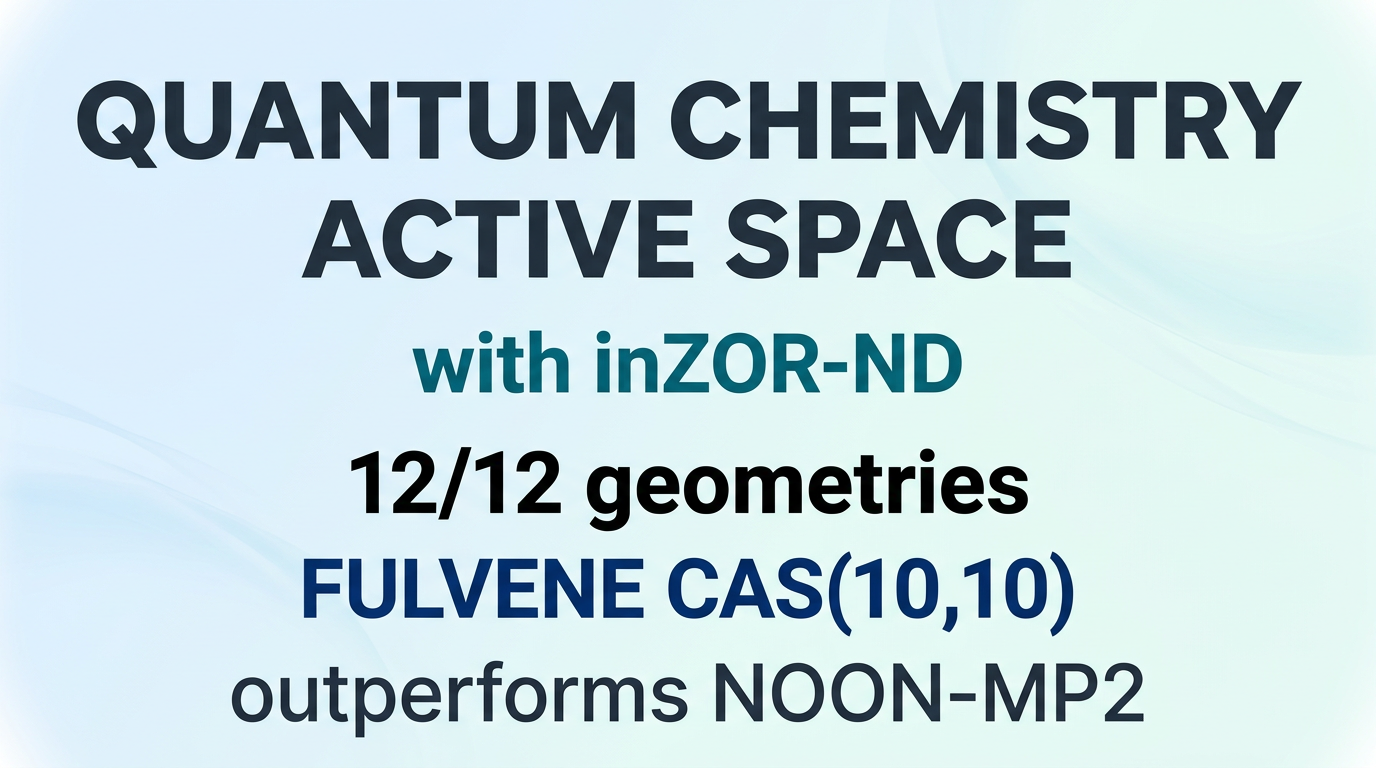
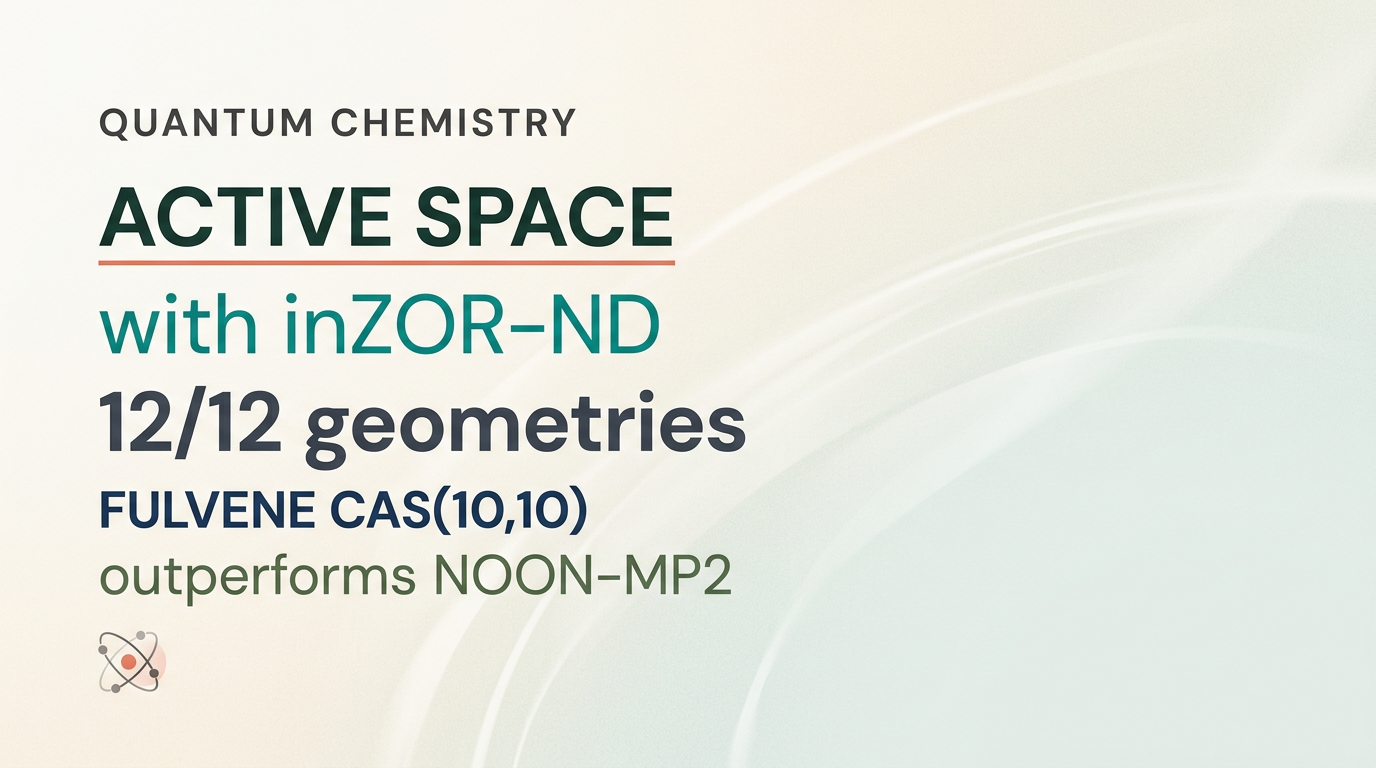
design: LinkedIn active_space graphic v3 — airy layout, warmer palette, smaller type

diff --git a/zenodo_publish/photochem_multigeom/LINKEDIN_ARTICLE_PHOTOCHEM.md b/zenodo_publish/photochem_multigeom/LINKEDIN_ARTICLE_PHOTOCHEM.md
@@ -125,19 +125,21 @@ For link-preview crops (~1200×627), keep text in the **upper two-thirds** of th
 
 ---
 
-## Alternate graphic — “ACTIVE SPACE” variant (light theme)
+## Alternate graphic — “ACTIVE SPACE” variant (light theme, v3)
 
 **File:** `zenodo_publish/photochem_multigeom/linkedin_photochem_active_space.png`
 
-Light, soft background (sky–mint gradient). Hierarchy top → bottom:
+**Design:** airy layout — text ~left half, **whitespace / gradient** on the right so the frame does not feel “blocked”; **smaller** type than early drafts; palette **cream → sage** with subtle coral/teal accents (not cold hospital-blue). Editorial / magazine feel for LinkedIn.
 
-1. **QUANTUM CHEMISTRY** / **ACTIVE SPACE** (largest — primary subject)  
-2. **with inZOR-ND** (smaller, clearly visible)  
+Hierarchy (same content):
+
+1. **QUANTUM CHEMISTRY** / **ACTIVE SPACE**  
+2. **with inZOR-ND**  
 3. **12/12 geometries**  
 4. **FULVENE CAS(10,10)**  
 5. **outperforms NOON-MP2**  
 
-Use as carousel slide 2 or standalone post image. English only on asset.
+LinkedIn-only — see `LINKEDIN_ASSETS_NOTICE.md`.
 
 ---
 